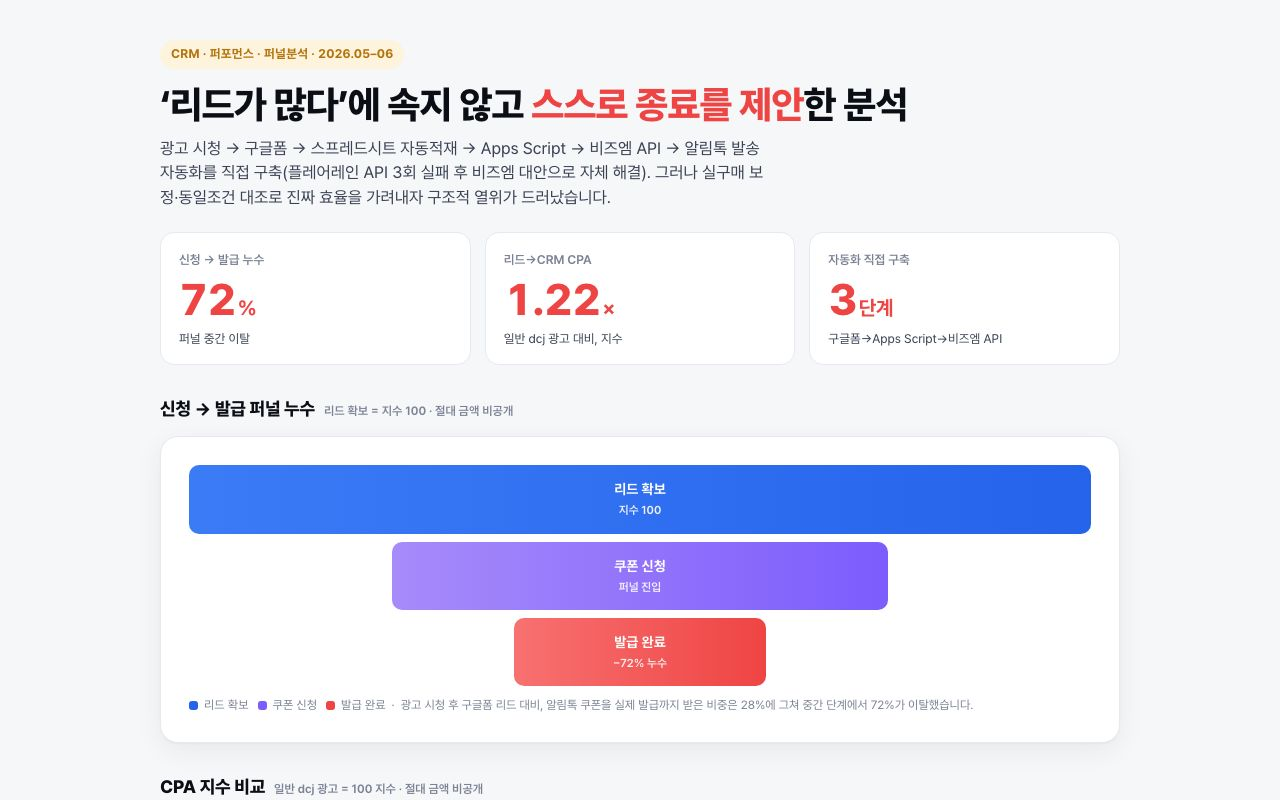
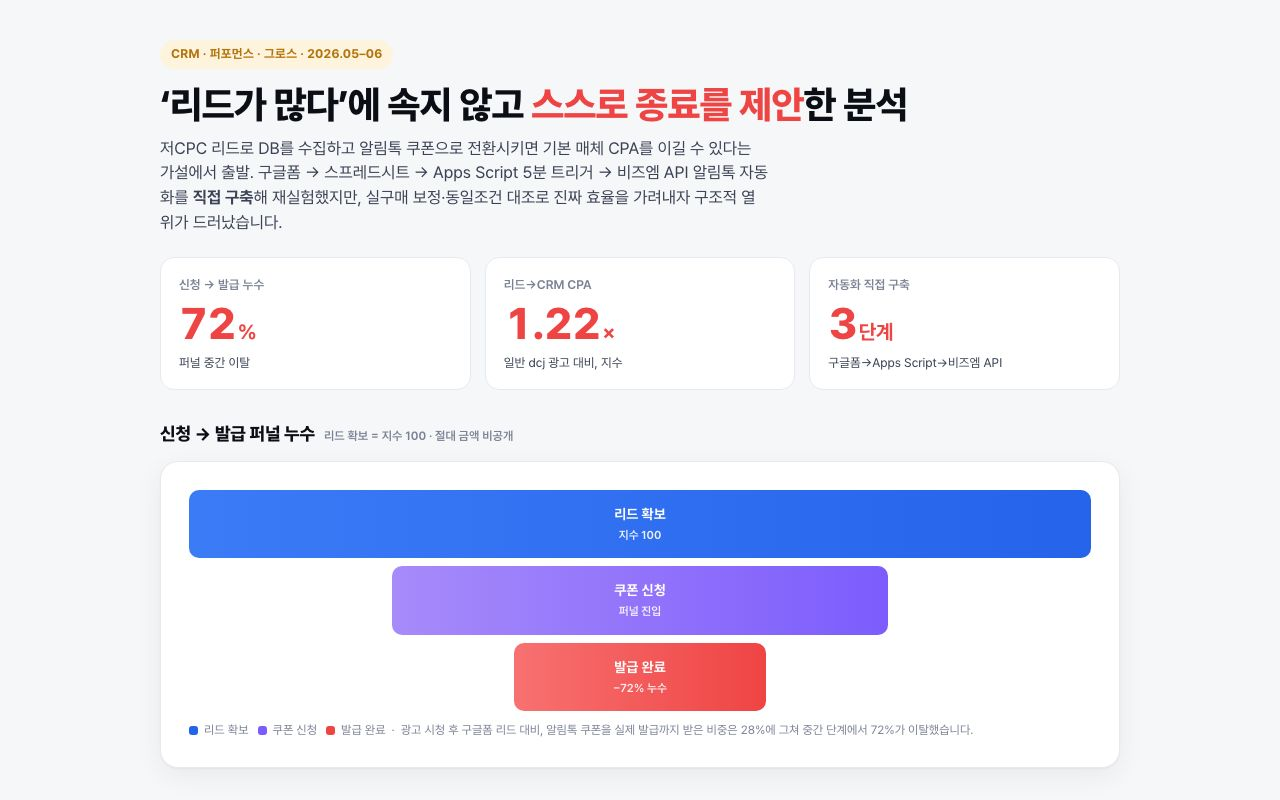
fix(meta-funnel): correct category to 그로스, update sub description per ver2
- kicker: 퍼널분석 → 그로스 (Notion ver2 카테고리 기준)
- sub: remove 플레어레인 3회 실패 detail (not in ver2), rewrite from Notion 실행 내용

diff --git a/p/meta-funnel.html b/p/meta-funnel.html
@@ -6,9 +6,9 @@
 </head><body><div class="wrap">
 
 <div class="head">
-  <span class="kicker amber">CRM · 퍼포먼스 · 퍼널분석 · 2026.05–06</span>
+  <span class="kicker amber">CRM · 퍼포먼스 · 그로스 · 2026.05–06</span>
   <h1>‘리드가 많다’에 속지 않고 <span class="hl-r">스스로 종료를 제안</span>한 분석</h1>
-  <p class="sub">광고 시청 → 구글폼 → 스프레드시트 자동적재 → Apps Script → 비즈엠 API → 알림톡 발송 자동화를 직접 구축(플레어레인 API 3회 실패 후 비즈엠 대안으로 자체 해결). 그러나 실구매 보정·동일조건 대조로 진짜 효율을 가려내자 구조적 열위가 드러났습니다.</p>
+  <p class="sub">저CPC 리드로 DB를 수집하고 알림톡 쿠폰으로 전환시키면 기본 매체 CPA를 이길 수 있다는 가설에서 출발. 구글폼 → 스프레드시트 → Apps Script 5분 트리거 → 비즈엠 API 알림톡 자동화를 <b>직접 구축</b>해 재실험했지만, 실구매 보정·동일조건 대조로 진짜 효율을 가려내자 구조적 열위가 드러났습니다.</p>
 </div>
 
 <div class="grid g3">